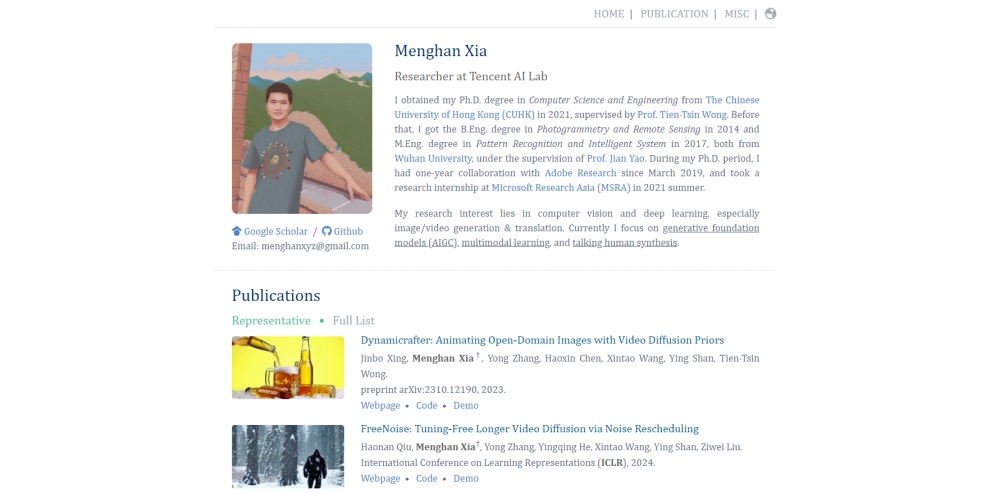
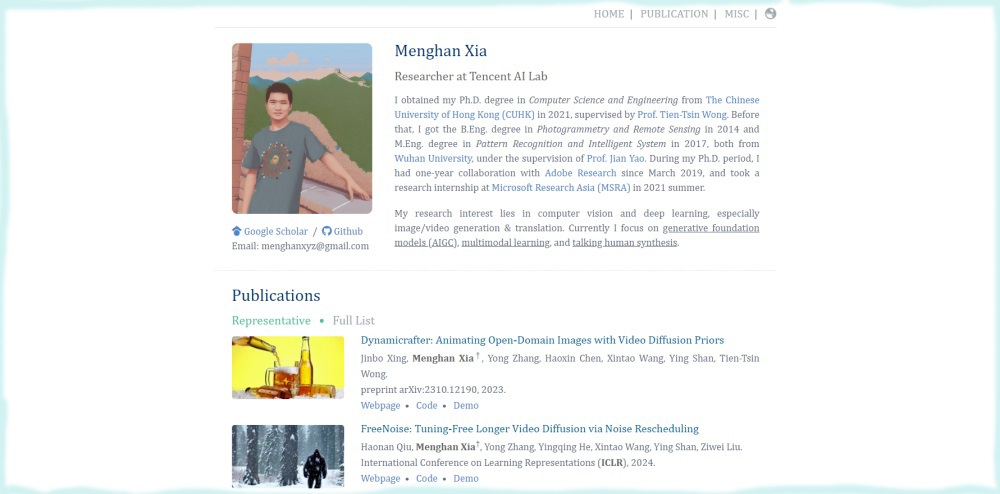
minor

Changed region(s): [[0.0, 0.0, 1.0, 1.0], [0.0, 0.7895, 0.124, 1.0], [0.155, 0.9717, 0.248, 1.0]]

diff --git a/old_template/assets/jemdoc.css b/old_template/assets/jemdoc.css
@@ -13,7 +13,7 @@ body {
 }
 */
 html {
-  background-color: #ffffff; 
+  background-color: #f4f4f4;
 }
 
 body { 
@@ -26,12 +26,10 @@ body {
   margin-bottom: 30px;
   margin-left: auto;
   margin-right: auto;
-  /*
   padding-left:  50px;
   padding-right: 50px;
   padding-top: 10px;
   padding-bottom: 30px;
-  */
   max-width: 1000px;
 }
 
